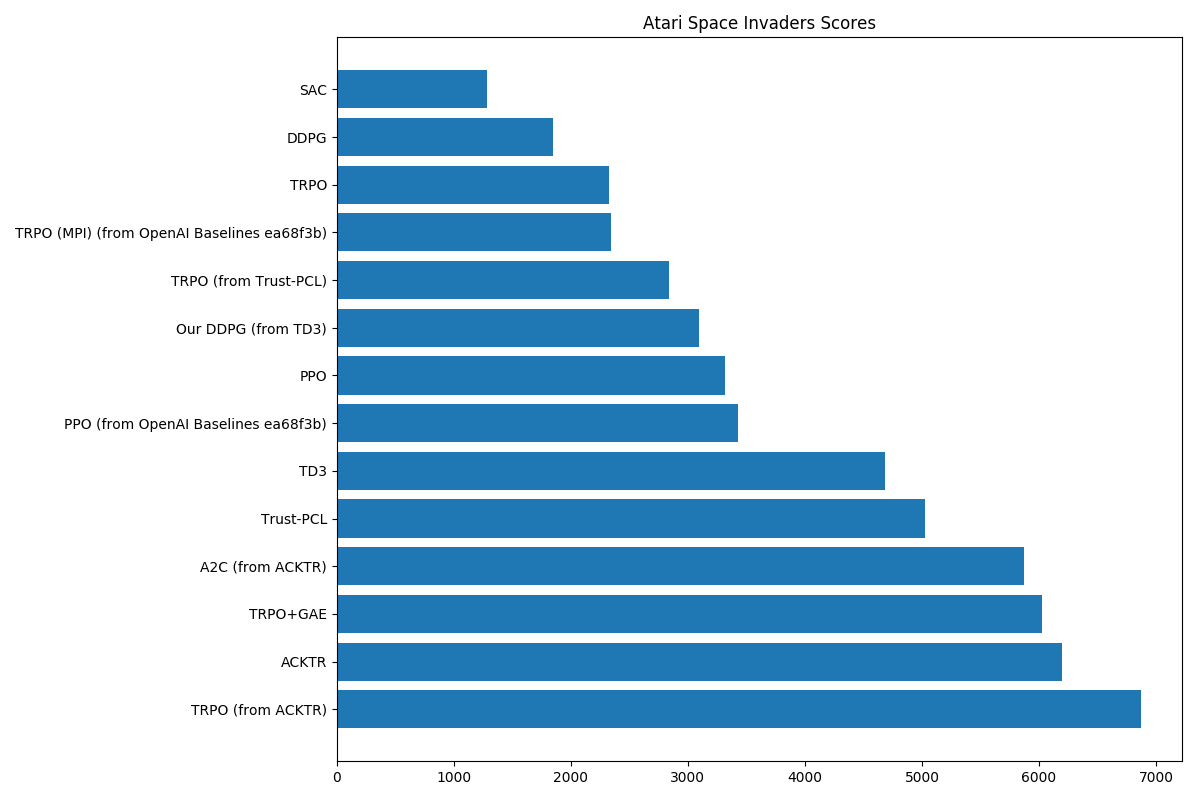
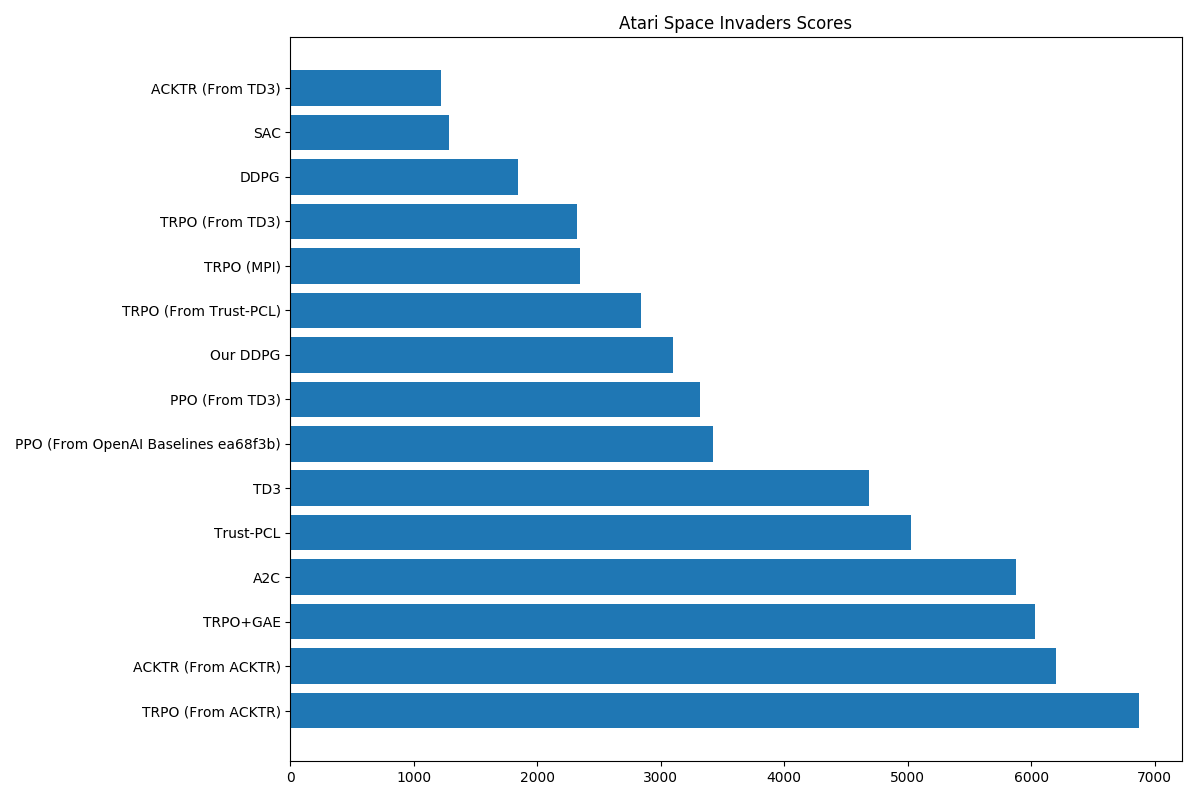
Differentiate duplicate algorithms in bar plots (#47)
* Implement entries_to_labels_scores

* Remove manually added 'from's

* Update metrics

* Update README plots

diff --git a/example_plot.py b/example_plot.py
@@ -10,13 +10,11 @@ def env_barplot(filter, plot_title, plot_name):
     sorted_entries = sorted(
         entries,
         key=lambda entry: entry['score'],
-        reverse=True
+        reverse=True,
     )
-    deduped_entries = remove_duplicates(sorted_entries)
+    labels, scores = entries_to_labels_scores(sorted_entries)
 
     # Draw bar plot
-    labels = ['{} ({})'.format(entry['algo-nickname'], entry['env-variant']) if 'env-variant' in entry and 'env-variant' not in filter else entry['algo-nickname'] for entry in deduped_entries]
-    scores = [entry['score'] for entry in deduped_entries]
     plt.figure(figsize=(12, 8))
     plt.barh(labels, scores)
     plt.title(plot_title)
@@ -26,26 +24,25 @@ def env_barplot(filter, plot_title, plot_name):
     plt.clf()
 
 
-def remove_duplicates(entries):
-    duplicate_indices = []
-    for i, entry in enumerate(entries):
-        if i == len(entries) - 1:
-            break
-        next_entry = entries[i + 1]
+def entries_to_labels_scores(entries):
+    """
+    Convert entries to labels and scores for barplot.
+    """
+    nicknames = [entry['algo-nickname'] for entry in entries]
 
-        if entry['algo-nickname'] == next_entry['algo-nickname'] and ('env-variant' in entry and 'env-variant' in next_entry and entry['env-variant'] == next_entry['env-variant']):
-            if entry['score'] == next_entry['score']:
-                duplicate_indices.append(i + 1)
-            else:
-                print('[WARN] Algorithm {} have different scores ({}, {}) from source ({}, {}) in env {}. Consider renaming them.'.format(
-                    entry['algo-nickname'],
-                    entry['score'], next_entry['score'],
-                    entry['source-nickname'], next_entry['source-nickname'],
-                    '{} ({})'.format(entry['env-title'], entry['env-variant']) if 'env-variant' in entry else entry['env-title'],
-                ))
+    labels = []
+    scores = []    
+    for entry in entries:
+        label = entry['algo-nickname']
 
-    deduped_entries = [entry for i, entry in enumerate(entries) if i not in duplicate_indices]
-    return deduped_entries
+        # Add source info if needed
+        if nicknames.count(entry['algo-nickname']) > 1:
+            label += ' (From {})'.format(entry['source-nickname'])
+
+        labels.append(label)
+        scores.append(entry['score'])
+
+    return labels, scores
 
 
 def main():

diff --git a/rldb/db/source__openai_baselines_cbd21ef/algo__acktr/__init__.py b/rldb/db/source__openai_baselines_cbd21ef/algo__acktr/__init__.py
@@ -12,8 +12,8 @@ from .entries import entries
 # Specify ALGORITHM
 algo = {
     # ALGORITHM
-    "algo-title": "Actor Critic using Kronecker-factored Trust Region (from OpenAI Baselines cbd21ef)",
-    "algo-nickname": "ACKTR (from OpenAI Baselines cbd21ef)",
+    "algo-title": "Actor Critic using Kronecker-factored Trust Region",
+    "algo-nickname": "ACKTR",
     "algo-source-title": "Scalable trust-region method for deep reinforcement learning using Kronecker-factored approximation",
 }
 

diff --git a/rldb/db/paper__acktr/algo__trpo/__init__.py b/rldb/db/paper__acktr/algo__trpo/__init__.py
@@ -13,8 +13,8 @@ from .entries import entries
 # Specify ALGORITHM
 algo = {
     # ALGORITHM
-    "algo-title": "Trust Region Policy Optimization (from ACKTR)",
-    "algo-nickname": "TRPO (from ACKTR)",
+    "algo-title": "Trust Region Policy Optimization",
+    "algo-nickname": "TRPO",
     "algo-source-title": "Scalable trust-region method for deep reinforcement learning using Kronecker-factored approximation",
 }
 

diff --git a/rldb/db/source__openai_baselines_cbd21ef/algo__acer/__init__.py b/rldb/db/source__openai_baselines_cbd21ef/algo__acer/__init__.py
@@ -12,8 +12,8 @@ from .entries import entries
 # Specify ALGORITHM
 algo = {
     # ALGORITHM
-    "algo-title": "Actor-Critic with Experience Replay (from OpenAI Baselines cbd21ef)",
-    "algo-nickname": "ACER (from OpenAI Baselines cbd21ef)",
+    "algo-title": "Actor-Critic with Experience Replay",
+    "algo-nickname": "ACER",
     "algo-source-title": "Sample Efficient Actor-Critic with Experience Replay",
 }
 

diff --git a/rldb/db/source__openai_baselines_cbd21ef/algo__trpo_mpi/__init__.py b/rldb/db/source__openai_baselines_cbd21ef/algo__trpo_mpi/__init__.py
@@ -12,8 +12,8 @@ from .entries import entries
 # Specify ALGORITHM
 algo = {
     # ALGORITHM
-    "algo-title": "Trust Region Policy Optimization (MPI) (from OpenAI Baselines cbd21ef)",
-    "algo-nickname": "TRPO (MPI) (from OpenAI Baselines cbd21ef)",
+    "algo-title": "Trust Region Policy Optimization (MPI)",
+    "algo-nickname": "TRPO (MPI)",
     "algo-source-title": "Trust Region Policy Optimization",
 }
 

diff --git a/rldb/db/source__openai_baselines_ea68f3b/algo__trpo_mpi/__init__.py b/rldb/db/source__openai_baselines_ea68f3b/algo__trpo_mpi/__init__.py
@@ -12,8 +12,8 @@ from .entries import entries
 # Specify ALGORITHM
 algo = {
     # ALGORITHM
-    "algo-title": "Trust Region Policy Optimization (MPI) (from OpenAI Baselines ea68f3b)",
-    "algo-nickname": "TRPO (MPI) (from OpenAI Baselines ea68f3b)",
+    "algo-title": "Trust Region Policy Optimization (MPI)",
+    "algo-nickname": "TRPO (MPI)",
     "algo-source-title": "Trust Region Policy Optimization",
 }
 

diff --git a/rldb/db/source__openai_baselines_cbd21ef/algo__ppo2_mpi/__init__.py b/rldb/db/source__openai_baselines_cbd21ef/algo__ppo2_mpi/__init__.py
@@ -12,8 +12,8 @@ from .entries import entries
 # Specify ALGORITHM
 algo = {
     # ALGORITHM
-    "algo-title": "Proximal Policy Optimization (MPI) (from OpenAI Baselines cbd21ef)",
-    "algo-nickname": "PPO (MPI) (from OpenAI Baselines cbd21ef)",
+    "algo-title": "Proximal Policy Optimization (MPI)",
+    "algo-nickname": "PPO (MPI)",
     "algo-source-title": "Proximal Policy Optimization Algorithms",
 }
 

diff --git a/rldb/db/paper__acktr/algo__a2c/__init__.py b/rldb/db/paper__acktr/algo__a2c/__init__.py
@@ -13,8 +13,8 @@ from .entries import entries
 # Specify ALGORITHM
 algo = {
     # ALGORITHM
-    "algo-title": "Advantage Actor Critic (from ACKTR)",
-    "algo-nickname": "A2C (from ACKTR)",
+    "algo-title": "Advantage Actor Critic",
+    "algo-nickname": "A2C",
     "algo-source-title": "Scalable trust-region method for deep reinforcement learning using Kronecker-factored approximation",
 }
 

diff --git a/rldb/db/paper__td3/algo__our_ddpg/__init__.py b/rldb/db/paper__td3/algo__our_ddpg/__init__.py
@@ -12,8 +12,8 @@ from .entries import entries
 # Specify ALGORITHM
 algo = {
     # ALGORITHM
-    "algo-title": "Our Deep Deterministic Policy Gradient (from TD3)",
-    "algo-nickname": "Our DDPG (from TD3)",
+    "algo-title": "Our Deep Deterministic Policy Gradient",
+    "algo-nickname": "Our DDPG",
     "algo-source-title": "Continuous control with deep reinforcement learning",
 }
 

diff --git a/rldb/db/source__openai_baselines_cbd21ef/algo__ppo2/__init__.py b/rldb/db/source__openai_baselines_cbd21ef/algo__ppo2/__init__.py
@@ -12,8 +12,8 @@ from .entries import entries
 # Specify ALGORITHM
 algo = {
     # ALGORITHM
-    "algo-title": "Proximal Policy Optimization (from OpenAI Baselines cbd21ef)",
-    "algo-nickname": "PPO (from OpenAI Baselines cbd21ef)",
+    "algo-title": "Proximal Policy Optimization",
+    "algo-nickname": "PPO",
     "algo-source-title": "Proximal Policy Optimization Algorithms",
 }
 

diff --git a/rldb/db/source__openai_baselines_ea68f3b/algo__ppo2/__init__.py b/rldb/db/source__openai_baselines_ea68f3b/algo__ppo2/__init__.py
@@ -12,8 +12,8 @@ from .entries import entries
 # Specify ALGORITHM
 algo = {
     # ALGORITHM
-    "algo-title": "Proximal Policy Optimization (from OpenAI Baselines ea68f3b)",
-    "algo-nickname": "PPO (from OpenAI Baselines ea68f3b)",
+    "algo-title": "Proximal Policy Optimization",
+    "algo-nickname": "PPO",
     "algo-source-title": "Proximal Policy Optimization Algorithms",
 }
 

diff --git a/rldb/db/source_rl_baselines_zoo/algo__ppo2/__init__.py b/rldb/db/source_rl_baselines_zoo/algo__ppo2/__init__.py
@@ -12,8 +12,8 @@ from .entries import entries
 # Specify ALGORITHM
 algo = {
     # ALGORITHM
-    "algo-title": "Proximal Policy Optimization (from OpenAI Baselines cbd21ef)",
-    "algo-nickname": "PPO (from OpenAI Baselines cbd21ef)",
+    "algo-title": "Proximal Policy Optimization",
+    "algo-nickname": "PPO",
     "algo-source-title": "Proximal Policy Optimization Algorithms",
 }
 
